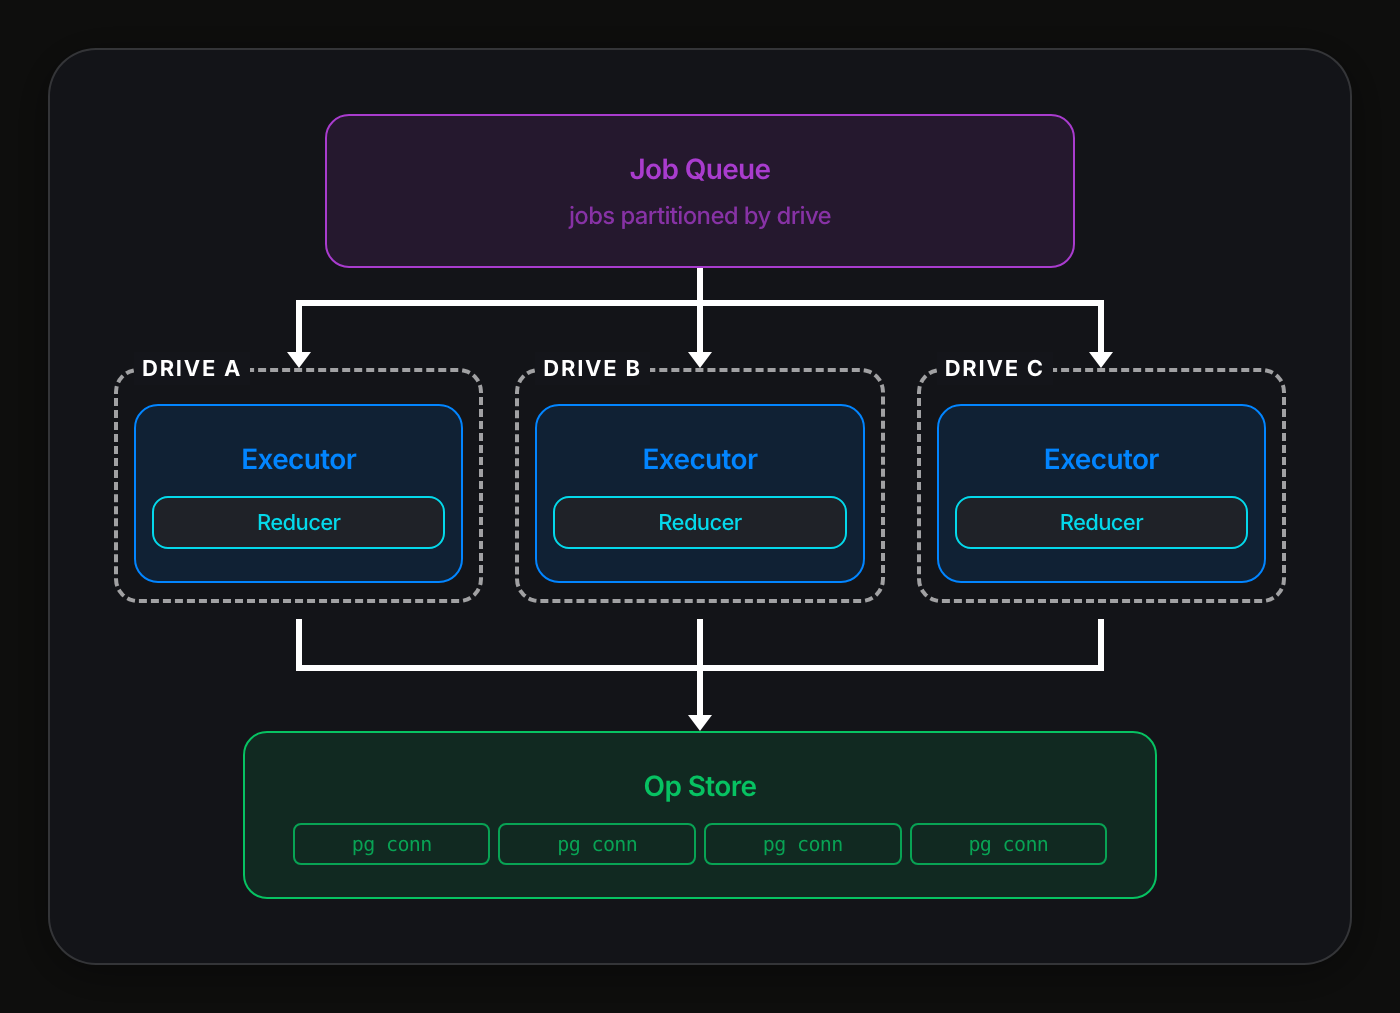
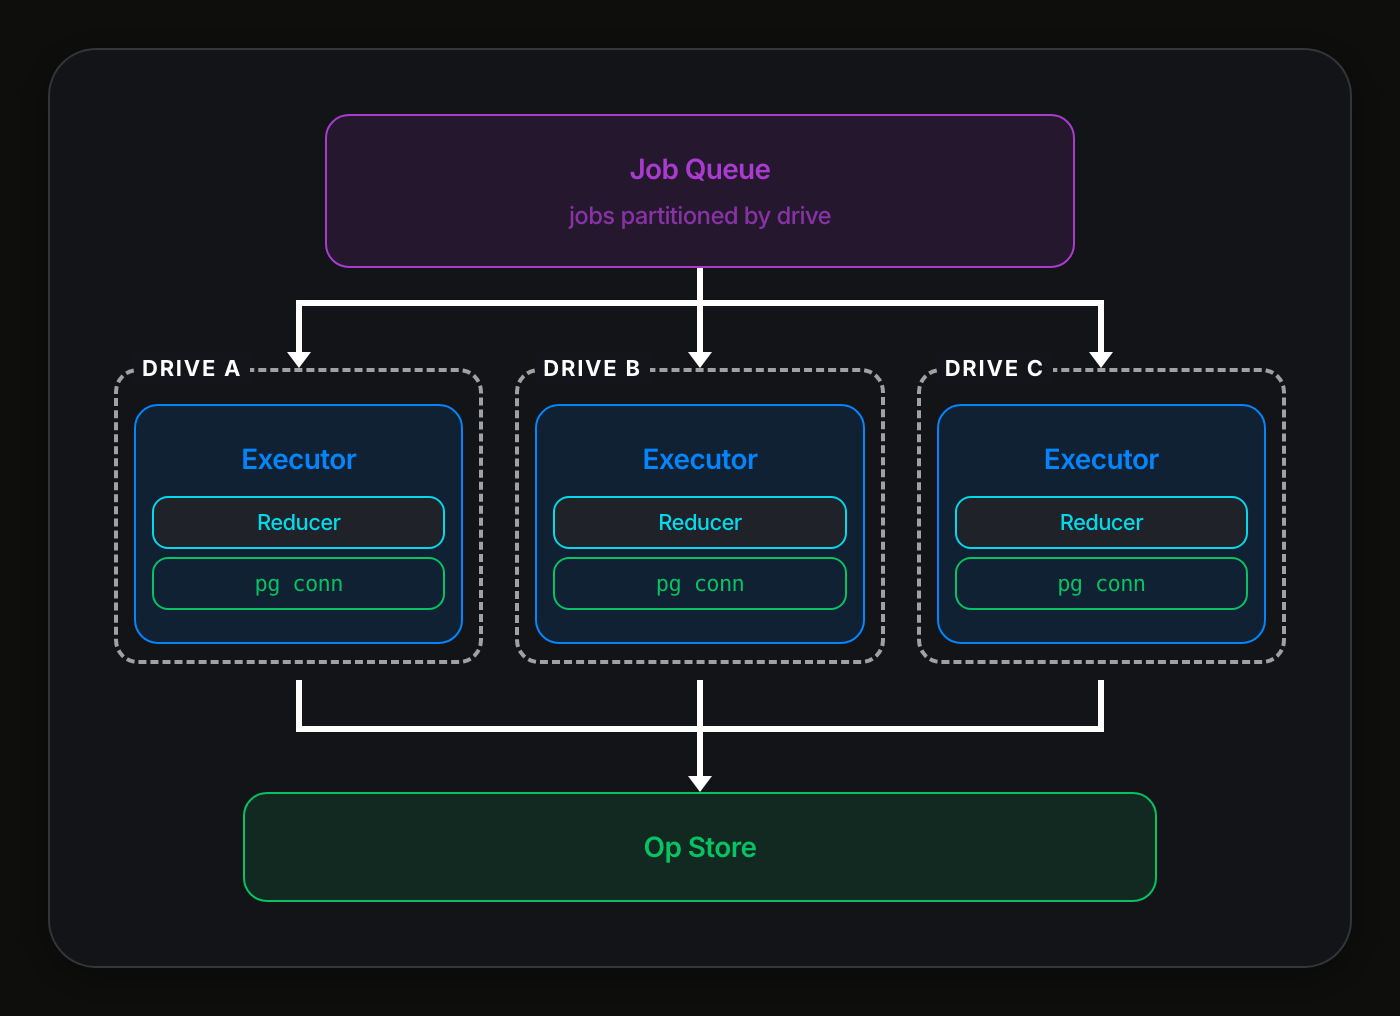
rebuild: pg conn moves into the executors on the writes slide

diff --git a/diagrams/pages/job-queue-executors.html b/diagrams/pages/job-queue-executors.html
@@ -161,24 +161,21 @@
       text-align: center;
     }
 
-    /* ---- op store / connection pool -------------------------------------- */
-    .pool { width: 78%; }
-    .pool-conns {
-      display: flex;
-      gap: var(--space-xs);
-      margin-top: var(--space-sm);
-    }
-    .pool-conn {
-      flex: 1;
+    /* Each executor holds its own connection to the store */
+    .pg-conn {
+      margin-top: var(--space-xs);
       border: 1px solid var(--accent-green);
-      border-radius: var(--radius-xs);
-      padding: 2px var(--space-xs);
-      font-size: 10px;
+      border-radius: var(--radius-sm);
+      padding: var(--space-xs) var(--space-sm);
+      font-size: 11px;
       font-weight: var(--font-weight-medium);
       font-family: 'SF Mono', 'Fira Code', monospace;
       color: var(--accent-green);
-      opacity: 0.8;
+      text-align: center;
     }
+
+    /* ---- op store --------------------------------------------------------- */
+    .pool { width: 78%; }
   </style>
 </head>
 <body>
@@ -211,6 +208,7 @@
               <div class="box accent-blue">
                 <div class="box-title">Executor</div>
                 <div class="reducer">Reducer</div>
+                <div class="pg-conn">pg conn</div>
               </div>
             </div>
             <div class="drive">
@@ -218,6 +216,7 @@
               <div class="box accent-blue">
                 <div class="box-title">Executor</div>
                 <div class="reducer">Reducer</div>
+                <div class="pg-conn">pg conn</div>
               </div>
             </div>
             <div class="drive">
@@ -225,6 +224,7 @@
               <div class="box accent-blue">
                 <div class="box-title">Executor</div>
                 <div class="reducer">Reducer</div>
+                <div class="pg-conn">pg conn</div>
               </div>
             </div>
           </div>
@@ -243,12 +243,6 @@
           <!-- Op store: a Postgres connection pool -->
           <div class="box accent-green pool">
             <div class="box-title">Op Store</div>
-            <div class="pool-conns">
-              <span class="pool-conn">pg conn</span>
-              <span class="pool-conn">pg conn</span>
-              <span class="pool-conn">pg conn</span>
-              <span class="pool-conn">pg conn</span>
-            </div>
           </div>
 
         </div>
